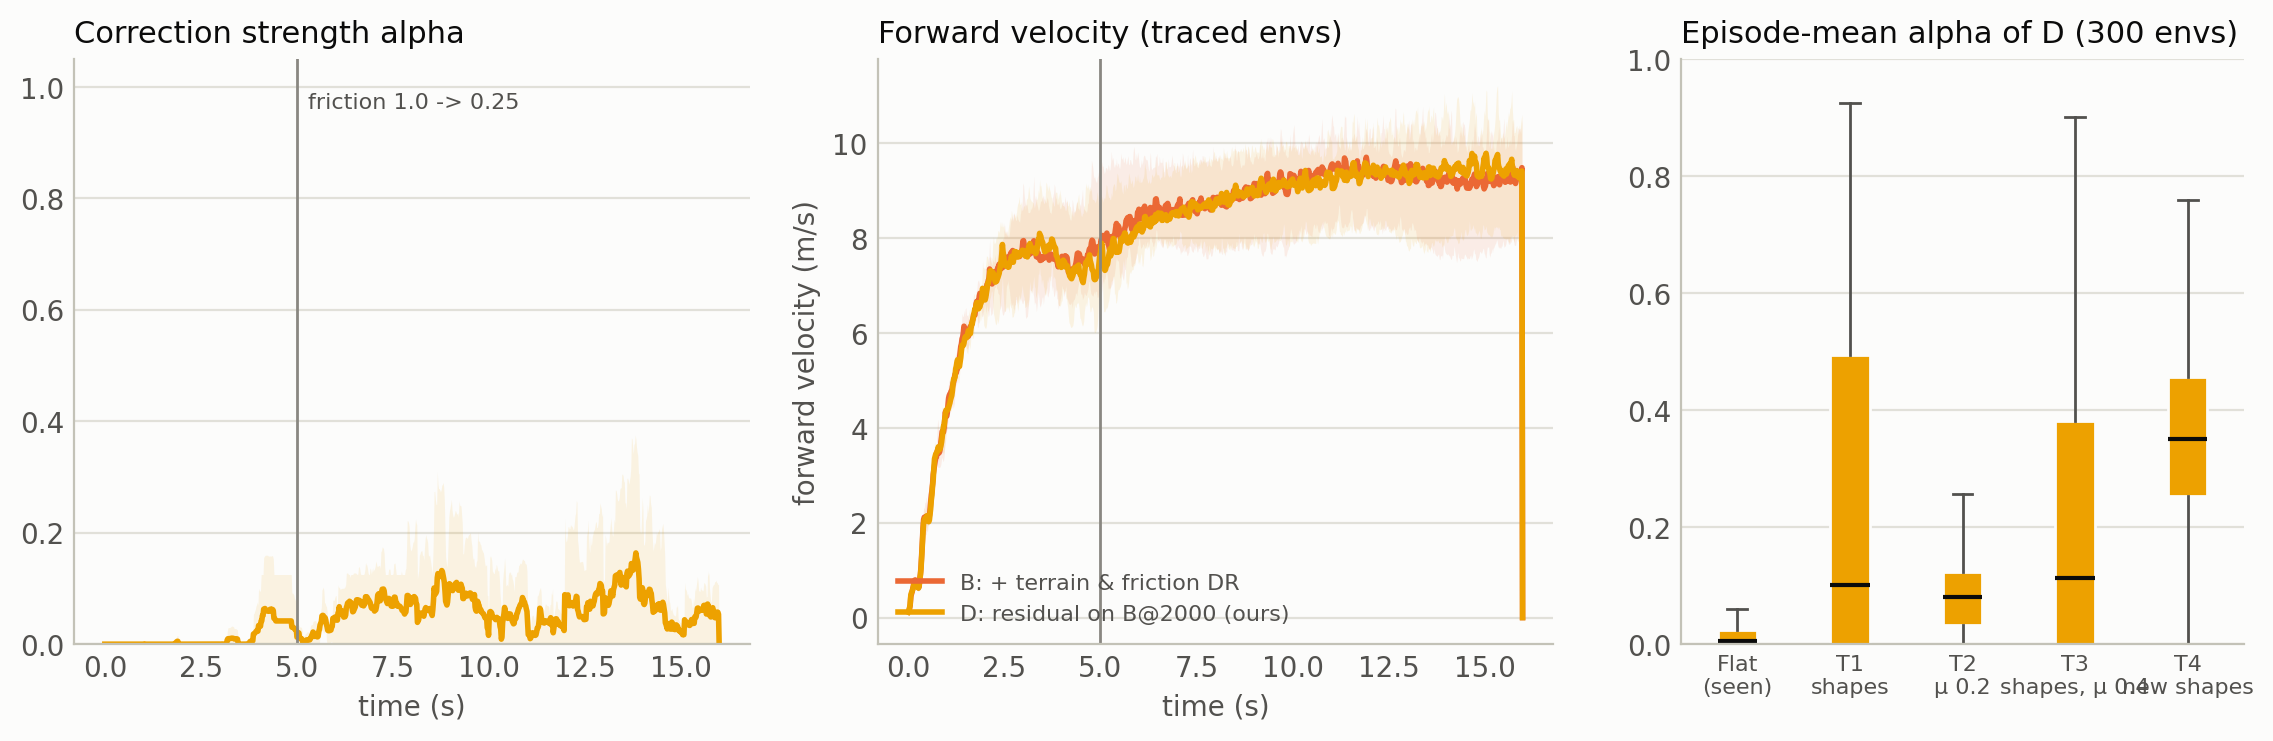
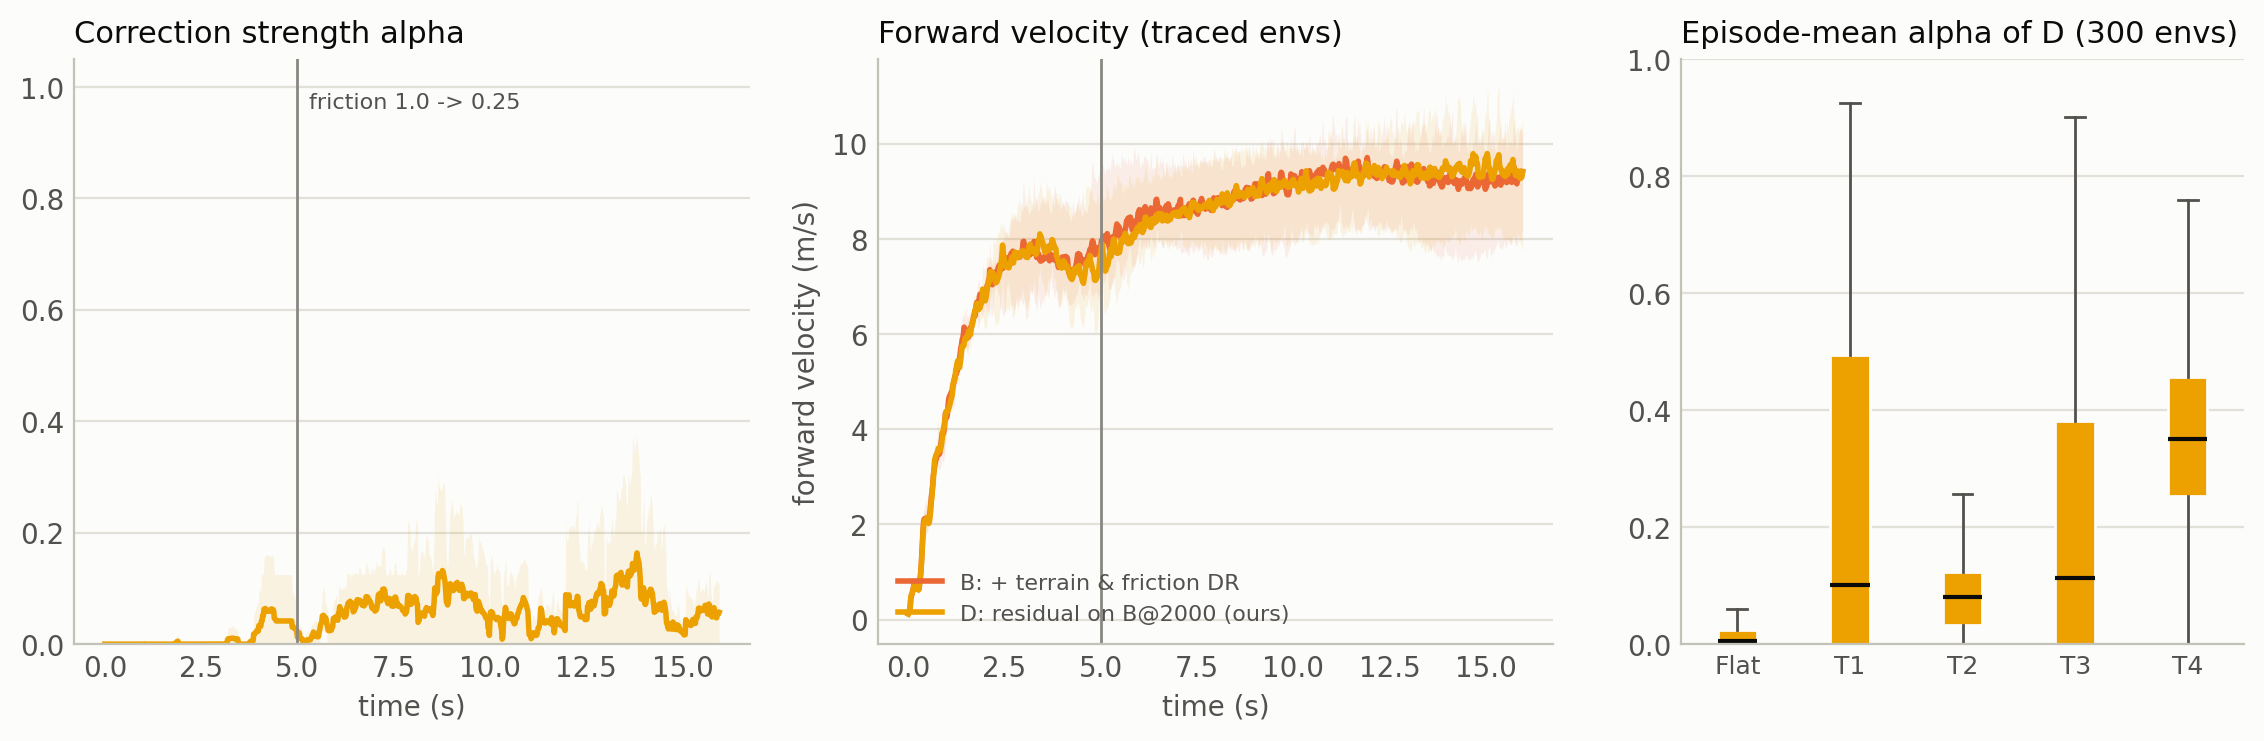
Tidy HW1 figures: short tick labels, neutral titles, trim reset artifact

diff --git a/assignments/hw1_ant/scripts/plots.py b/assignments/hw1_ant/scripts/plots.py
@@ -149,7 +149,8 @@ def fig_main(rows: list[dict]):
         for xi, r in zip(x, ref):
             if r:
                 ax.hlines(r[0], xi - 0.42, xi + 0.42, color=MUTED, linewidth=2, label=LABELS["A_ref"] if xi == 0 else None)
-        ax.set_xticks(x, [ENV_LABELS[e] for e in ENVS])
+        # the narrow right panel only gets the short names
+        ax.set_xticks(x, [ENV_LABELS[e] if key == "reward_mean" else e for e in ENVS])
         ax.set_title(title, loc="left")
         _style(ax)
     axes[1].set_ylim(0, 1)
@@ -246,7 +247,8 @@ def fig_alpha():
         for a in arrays:
             vals = np.where(a["active"], a[key], np.nan)
             series.append(np.nanmean(vals, axis=1))
-        n = min(len(s) for s in series)
+        # drop the final steps: the episode ends at 16 s and the reset zeroes the traced values
+        n = min(len(s) for s in series) - 2
         stack = np.stack([s[:n] for s in series])
         return np.arange(n) * dt, np.nanmean(stack, 0), np.nanmin(stack, 0), np.nanmax(stack, 0)
 
@@ -289,7 +291,7 @@ def fig_alpha():
         for box in parts["boxes"]:
             box.set_facecolor(COLORS["D"])
             box.set_edgecolor(SURFACE)
-        ax.set_xticks(range(1, len(ENVS) + 1), [ENV_LABELS[e] for e in ENVS], fontsize=8)
+        ax.set_xticks(range(1, len(ENVS) + 1), list(ENVS), fontsize=9)
         ax.set_ylim(0, 1.0)
         ax.set_title("Episode-mean alpha of D (300 envs)", loc="left")
         _style(ax)
@@ -394,7 +396,7 @@ def fig_spawn_height():
         ax.set_xlabel("spawn height (m)")
         _style(ax)
     axes[0][0].set_ylabel("distance walked (m)")
-    fig.suptitle("T1: robots that start high stay put (column means, 3 seeds)", x=0.01, ha="left", fontsize=11, color=INK)
+    fig.suptitle("T1: distance walked against spawn height (terrain-column means, 3 seeds)", x=0.01, ha="left", fontsize=11, color=INK)
     fig.tight_layout()
     _save(fig, "t1_spawn_height.png")
 
